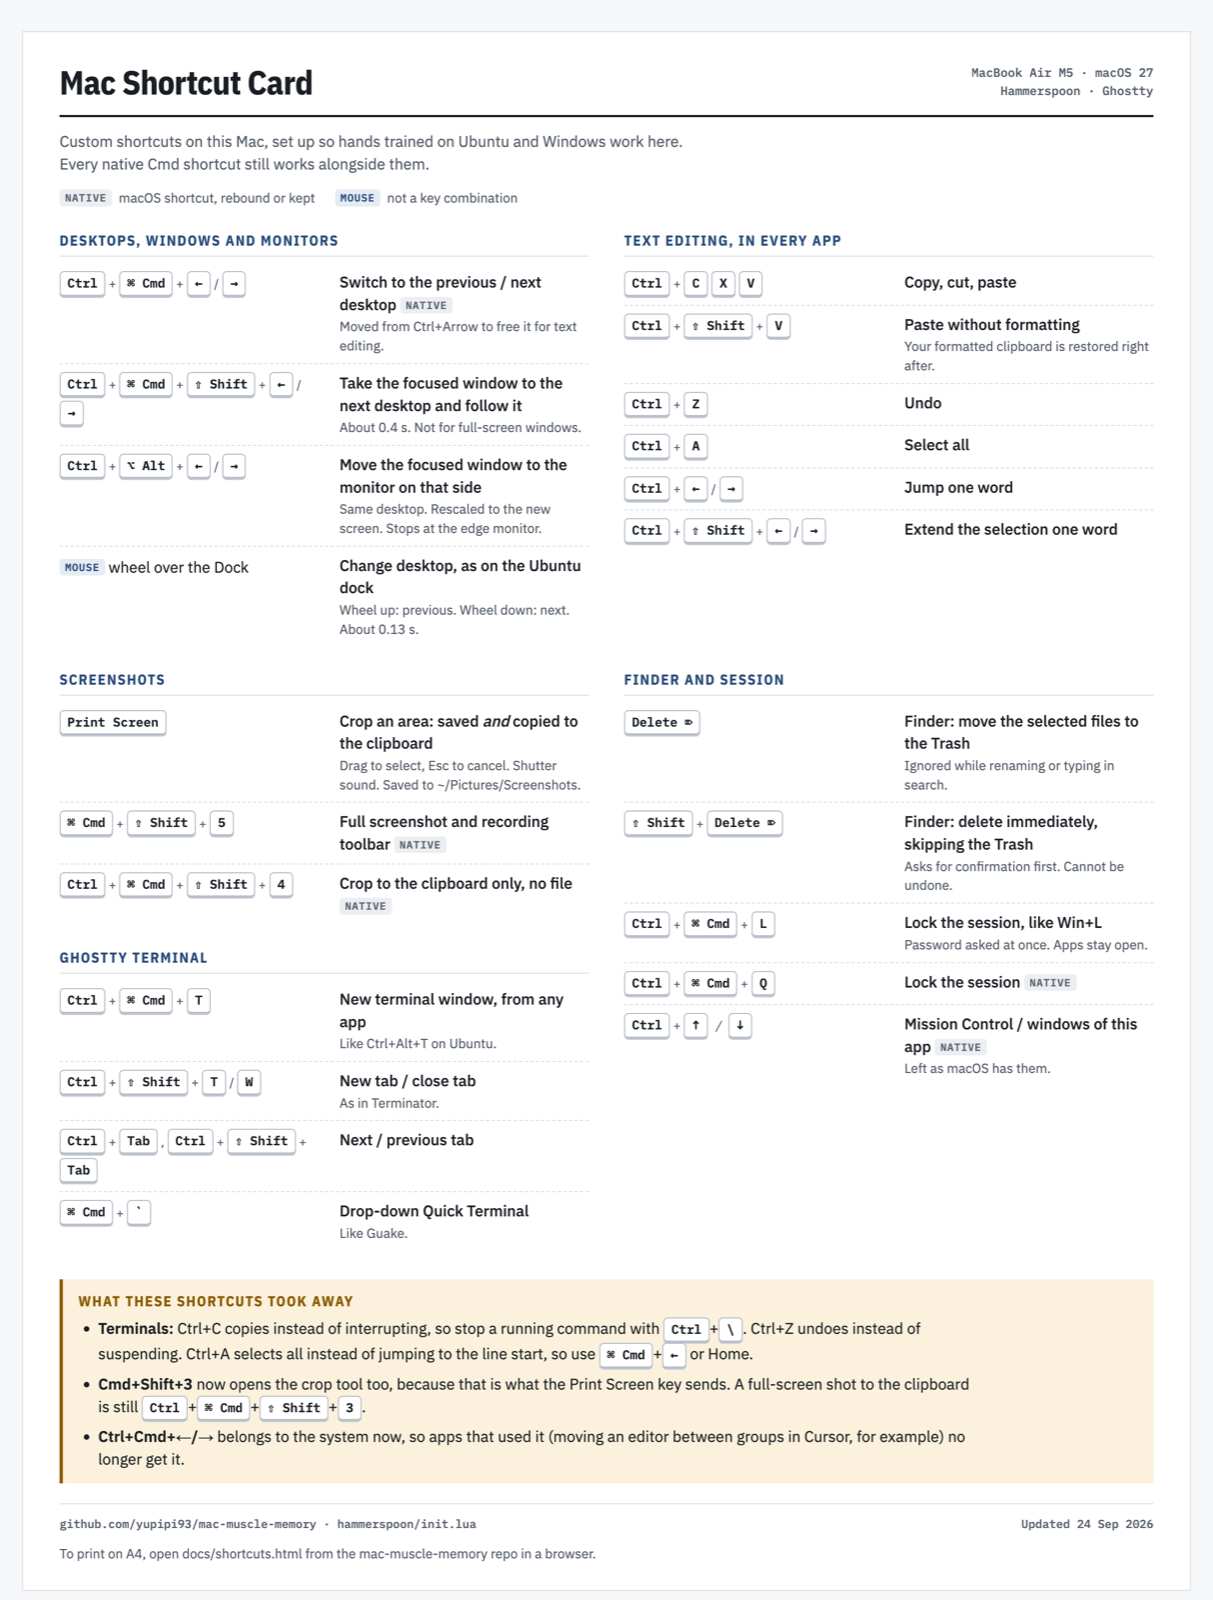
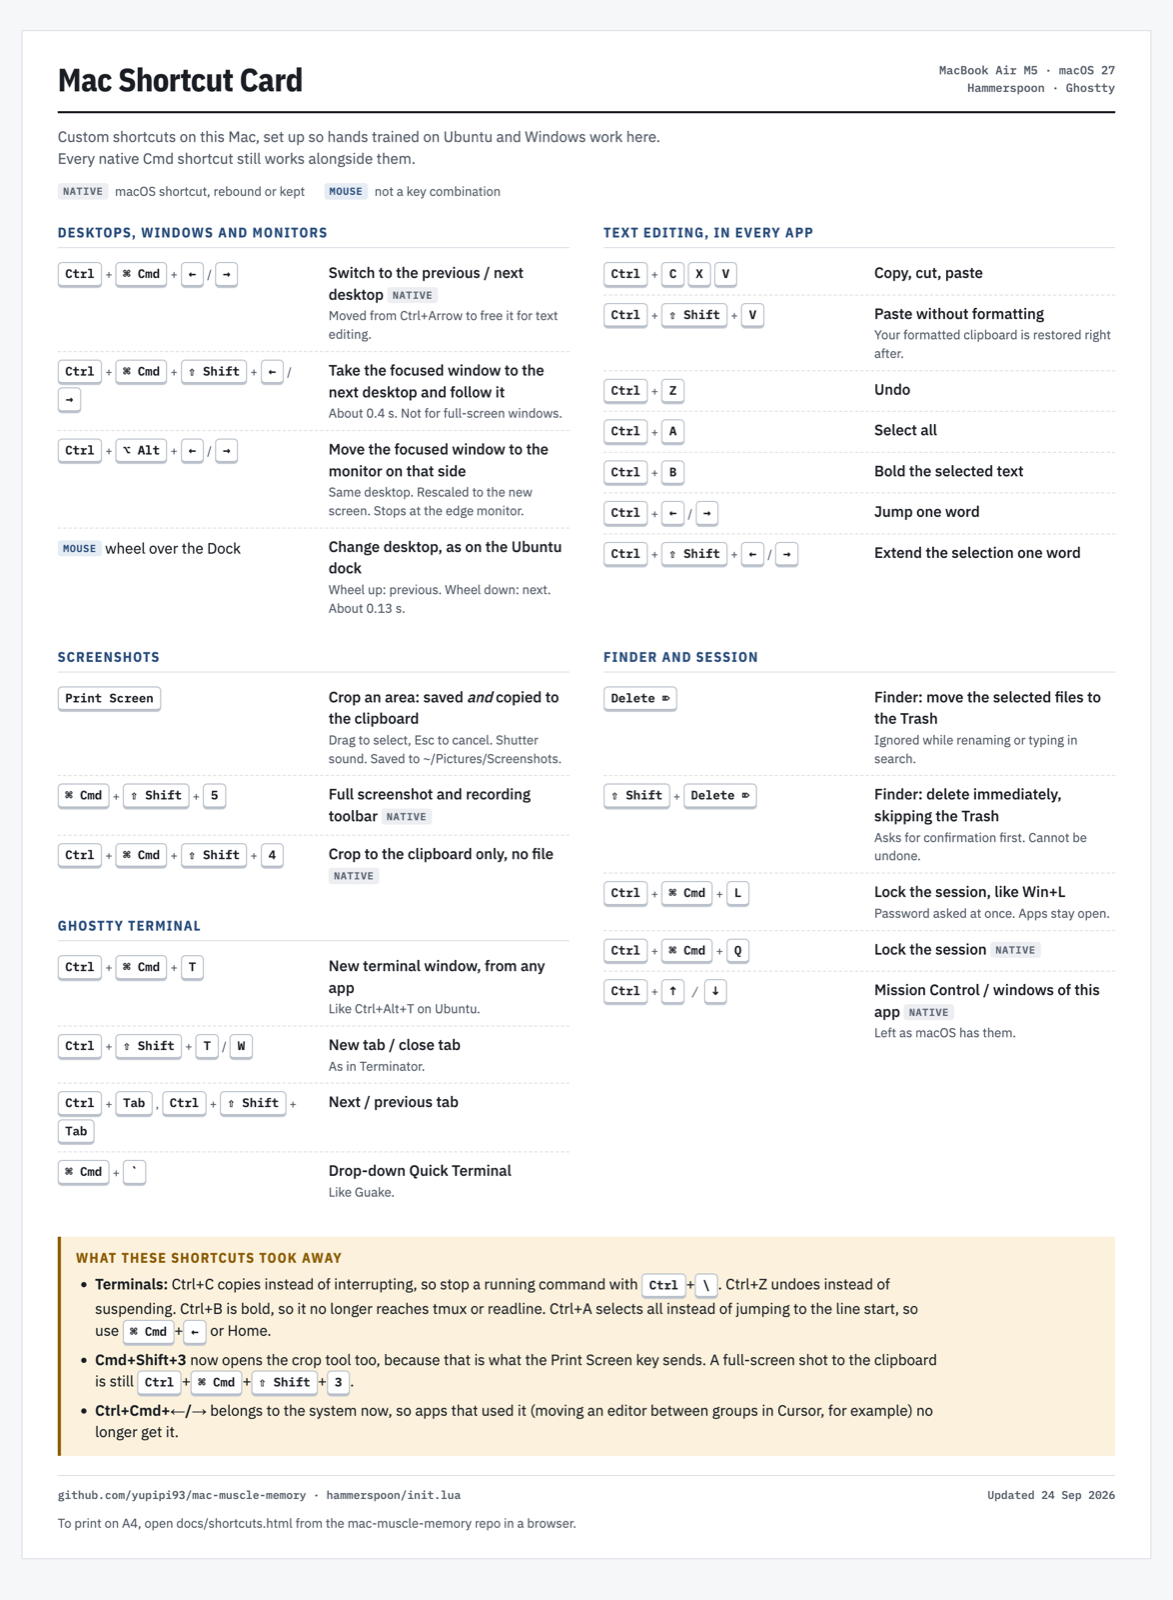
feat: Ctrl+B bolds the selected text in every app
Posted to the app as Cmd+B, the same mechanism as the other Ctrl shortcuts. Verified in
TextEdit: Helvetica became Helvetica-Bold. Cost: Ctrl+B no longer reaches terminals,
where it is tmux's default prefix; listed with the other trade-offs on the card, whose
README screenshot is refreshed.

diff --git a/docs/shortcuts.html b/docs/shortcuts.html
@@ -279,6 +279,10 @@
         <div class="what">Select all</div>
       </div>
       <div class="row">
+        <div class="keys"><kbd>Ctrl</kbd><span class="plus">+</span><kbd>B</kbd></div>
+        <div class="what">Bold the selected text</div>
+      </div>
+      <div class="row">
         <div class="keys"><kbd>Ctrl</kbd><span class="plus">+</span><kbd>←</kbd><span class="plus">/</span><kbd>→</kbd></div>
         <div class="what">Jump one word</div>
       </div>
@@ -353,7 +357,7 @@
   <aside class="caveats" aria-labelledby="h-caveats">
     <h2 id="h-caveats">What these shortcuts took away</h2>
     <ul>
-      <li><strong>Terminals:</strong> Ctrl+C copies instead of interrupting, so stop a running command with <kbd>Ctrl</kbd>+<kbd>\</kbd>. Ctrl+Z undoes instead of suspending. Ctrl+A selects all instead of jumping to the line start, so use <kbd>⌘ Cmd</kbd>+<kbd>←</kbd> or Home.</li>
+      <li><strong>Terminals:</strong> Ctrl+C copies instead of interrupting, so stop a running command with <kbd>Ctrl</kbd>+<kbd>\</kbd>. Ctrl+Z undoes instead of suspending. Ctrl+B is bold, so it no longer reaches tmux or readline. Ctrl+A selects all instead of jumping to the line start, so use <kbd>⌘ Cmd</kbd>+<kbd>←</kbd> or Home.</li>
       <li><strong>Cmd+Shift+3</strong> now opens the crop tool too, because that is what the Print Screen key sends. A full-screen shot to the clipboard is still <kbd>Ctrl</kbd>+<kbd>⌘ Cmd</kbd>+<kbd>⇧ Shift</kbd>+<kbd>3</kbd>.</li>
       <li><strong>Ctrl+Cmd+←/→</strong> belongs to the system now, so apps that used it (moving an editor between groups in Cursor, for example) no longer get it.</li>
     </ul>

diff --git a/README.md b/README.md
@@ -33,7 +33,7 @@ the way so nobody has to rediscover it.
 
 | Keys | Does | On a stock Mac |
 |------|------|----------------|
-| <kbd>Ctrl</kbd> <kbd>C</kbd> / <kbd>X</kbd> / <kbd>V</kbd> / <kbd>Z</kbd> / <kbd>A</kbd> | copy, cut, paste, undo, select all, in every app | Cmd instead of Ctrl |
+| <kbd>Ctrl</kbd> <kbd>C</kbd> / <kbd>X</kbd> / <kbd>V</kbd> / <kbd>Z</kbd> / <kbd>A</kbd> / <kbd>B</kbd> | copy, cut, paste, undo, select all, bold, in every app | Cmd instead of Ctrl |
 | <kbd>Ctrl</kbd> <kbd>Shift</kbd> <kbd>V</kbd> | paste without formatting, in every app | a different shortcut per app, or none |
 | <kbd>Ctrl</kbd> <kbd>←</kbd> <kbd>→</kbd>, add <kbd>Shift</kbd> to select | jump and select by word | Option+Arrow |
 | <kbd>Print Screen</kbd> | crop an area, save it **and** copy it | no such key |
@@ -143,6 +143,7 @@ Ctrl now means "Windows Ctrl" everywhere, terminals included, by choice:
 - **Ctrl+C copies instead of interrupting.** Stop a command with <kbd>Ctrl</kbd> <kbd>\\</kbd>.
 - **Ctrl+Z undoes instead of suspending**, and **Ctrl+A selects all** instead of jumping to the
   line start (use <kbd>Cmd</kbd> <kbd>←</kbd>).
+- **Ctrl+B is bold**, so it no longer reaches tmux, whose default prefix it is.
 - **Cmd+Shift+3** opens the crop tool too, because that is what the Print Screen key sends.
 
 Put an app in `CLIPBOARD_PASSTHROUGH_APPS` to give it its native behaviour back.

diff --git a/docs/settings.md b/docs/settings.md
@@ -154,6 +154,7 @@ Added 2026-09-23:
 |----------|------|-----|
 | **Ctrl+Z** | undo | Posted to the app as Cmd+Z, same mechanism as Ctrl+C. |
 | **Ctrl+A** | select all | Posted as Cmd+A. Verified in TextEdit: three typed lines, Ctrl+A then Cmd+C copied all three. |
+| **Ctrl+B** | bold | Posted as Cmd+B. Verified in TextEdit: selected text went from Helvetica to Helvetica-Bold. |
 | **Ctrl+Shift+V** | paste as plain text | See below. Matches Ctrl+Shift+V in Linux terminals. |
 
 **macOS has no universal plain-paste shortcut.** Chrome and native apps use Cmd+Alt+Shift+V,
@@ -182,7 +183,7 @@ Verified in TextEdit with `NEGRITA` in Helvetica-Bold 30 on the clipboard:
 | After Ctrl+Z | document empty, the paste was undone |
 
 **Cost in terminals, same trade-off as Ctrl+C:** Ctrl+Z no longer suspends the running process
-(SIGTSTP), it becomes undo. Ctrl+A no longer jumps to the start of the line, neither in the
+(SIGTSTP), it becomes undo. Ctrl+B is bold, so it no longer reaches tmux (its default prefix) or readline. Ctrl+A no longer jumps to the start of the line, neither in the
 shell (readline) nor in macOS text fields, which also bind it that way; Cmd+Left or Home does
 that now. The `CLIPBOARD_PASSTHROUGH_APPS` list restores it per app.
 

diff --git a/CHANGELOG.md b/CHANGELOG.md
@@ -88,6 +88,13 @@ have moved, one canvas per display, tunable via `HINT_DURATION` and `HINT_ALPHA`
 draw it, its speed is ours to choose, unlike the native animation. Measured cost: none, the
 switch still medians 130 ms.
 
+## 2026-09-24, Ctrl+B for bold
+
+- **Ctrl+B** bolds the selected text in every app, posted as Cmd+B. Verified in TextEdit:
+  Helvetica became Helvetica-Bold.
+- Cost: Ctrl+B no longer reaches terminals, where it is tmux's default prefix and readline's
+  "back one character". Listed on the shortcut card with the other terminal trade-offs.
+
 ## 2026-09-24, Ghostty tabs, and keyboard-specific material made private
 
 - Ghostty: **Ctrl+Shift+T** opens a new tab, alongside the existing Ctrl+Shift+W to close it,
